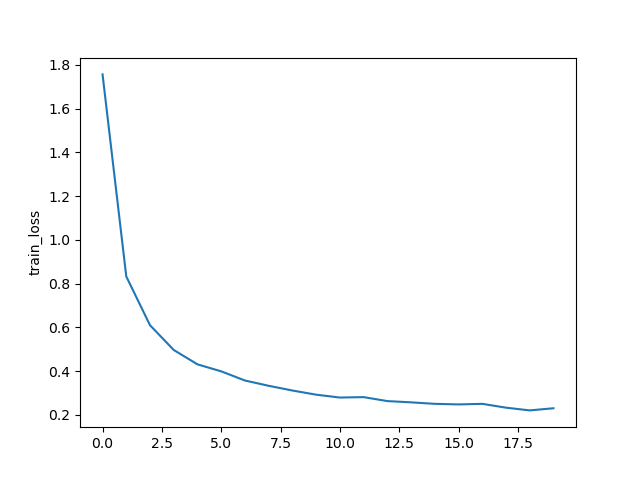
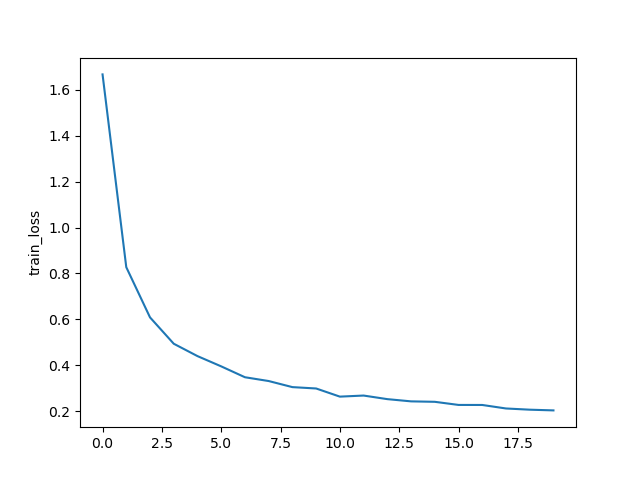
Scheduling comments

diff --git a/utils/scheduling.py b/utils/scheduling.py
@@ -1,32 +1,57 @@
 import numpy as np
 
-def search(distrobution, m, iterations):
-    bucket = np.zeros(distrobution.shape[0])
-    bucket[:m] = 1
-    mse_min = float('inf')
+def search(distrobution, m, iterations, selectedUsers):
+    """
+    Given the distrobution matrix, this function searches for a 
+    linear combination of m colums that are as evenly distubuted 
+    as possible. No analytical solution exists, and to go through 
+    all possible solutions would take to much time, so the 
+    function guesses linear combinations and picks the best of all
+    guesses based on the variance of the guessed linear combination. 
+
+    The function also prioritize users which has been picked less 
+    seldome, by bumping their probability to be guessed.
+
+    distrobution: Matrix with the distrobution of classes for all users
+    m: number of users to pick
+    iterations: number of guesses
+    selectedUsers: How users has previously been selected. 
+    """
+    var_min = float('inf')
     bucket_min = np.zeros(distrobution.shape[0])
+
+    # Increase the probability to pick users selected more seldome
+    prob = ((max(selectedUsers) - selectedUsers)**2 + 1)/sum((max(selectedUsers) - selectedUsers)**2 + 1)
     for i in range(iterations):
-        np.random.shuffle(bucket)
-        temp = sum(distrobution[np.where(bucket == 1)][:])
-        mse = sum((np.mean(temp) - temp)**2)
-        if mse < mse_min:
-            mse_min = mse
+        bucket = np.random.choice(range(distrobution.shape[0]), m, replace=False, p=prob)
+        temp = sum(distrobution[bucket][:])
+        var = sum((np.mean(temp) - temp)**2)
+        if var < var_min:
+            var_min = var
             bucket_min = bucket
     
-    #print(mse_min)
-    return np.where(bucket_min == 1)[0]
+    return bucket_min
     
         #print(bucket)
-def userSelection(m, dict, dataset):
+def userSelection(m, dict, dataset, selectedUsers, scheduling=True):
+    """
+    This function calculates the distribution of classes
+    in the local data for every user. From this result the 
+    function returns a set of m users which combined data 
+    are somwhat evenly distributed over classes.
+
+    m: Number of users to select
+    dict: local data for all users, as indexes to the dataset
+    dataset: Dataset of intresst 
+    selectedUsers: How users has previously been selected. 
+    """
     labels = dataset.train_labels.numpy()
     nbrOfClasses = 10
-    # Distobution for users
     dist = np.zeros((len(dict), nbrOfClasses))
     for user in range(len(dict)):
         for feature in dict[user]:
             dist[user][labels[feature]] += 1
     dist = dist/len(dict[0])
     
-    return search(dist, m, 1000)
-    print(reslut)
+    return search(dist, m, 1000, selectedUsers)
         

diff --git a/main_fed.py b/main_fed.py
@@ -72,6 +72,9 @@ if __name__ == '__main__':
     best_loss = None
     val_acc_list, net_list = [], []
 
+    # scheduling
+    selectedUsers = np.zeros(args.num_users)
+
     if args.all_clients: 
         print("Aggregation over all clients")
         w_locals = [w_glob for i in range(args.num_users)]
@@ -80,10 +83,19 @@ if __name__ == '__main__':
         if not args.all_clients:
             w_locals = []
 
-        ### 
+        
         m = max(int(args.frac * args.num_users), 1) # Numer of users
         #idxs_users = np.random.choice(range(args.num_users), m, replace=False) # Select at random
-        idxs_users = userSelection(m, dict_users, dataset_train)
+        
+
+        #################################
+        # Egen kod
+        #idxs_users = np.random.choice(range(args.num_users), m, replace=False) # Select at random
+        idxs_users = userSelection(m, dict_users, dataset_train, selectedUsers, True)
+
+
+
+        selectedUsers[idxs_users] += 1
 
         for idx in idxs_users:
             local = LocalUpdate(args=args, dataset=dataset_train, idxs=dict_users[idx])
@@ -118,3 +130,6 @@ if __name__ == '__main__':
     print("Training accuracy: {:.2f}".format(acc_train))
     print("Testing accuracy: {:.2f}".format(acc_test))
 
+    # Eget
+    #print("Number of times user n was selected during training: {:.0f}".format(selectedUsers))
+    #print("Variance of user selection: {:.2f}".format(np.var(selectedUsers)))
